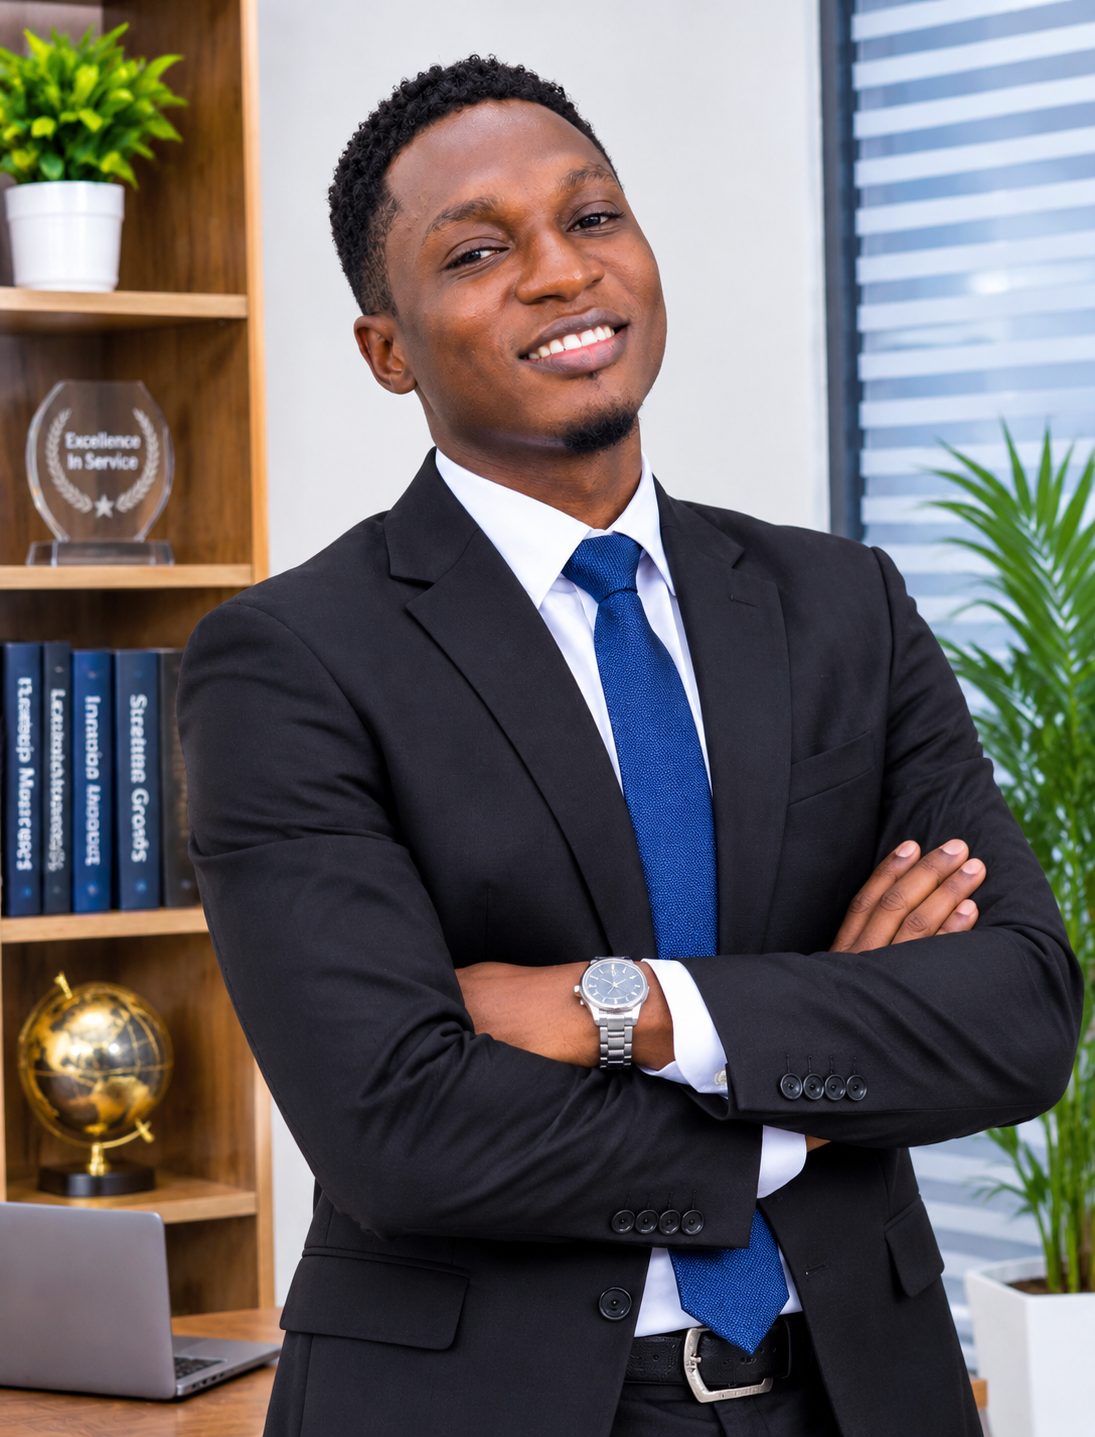
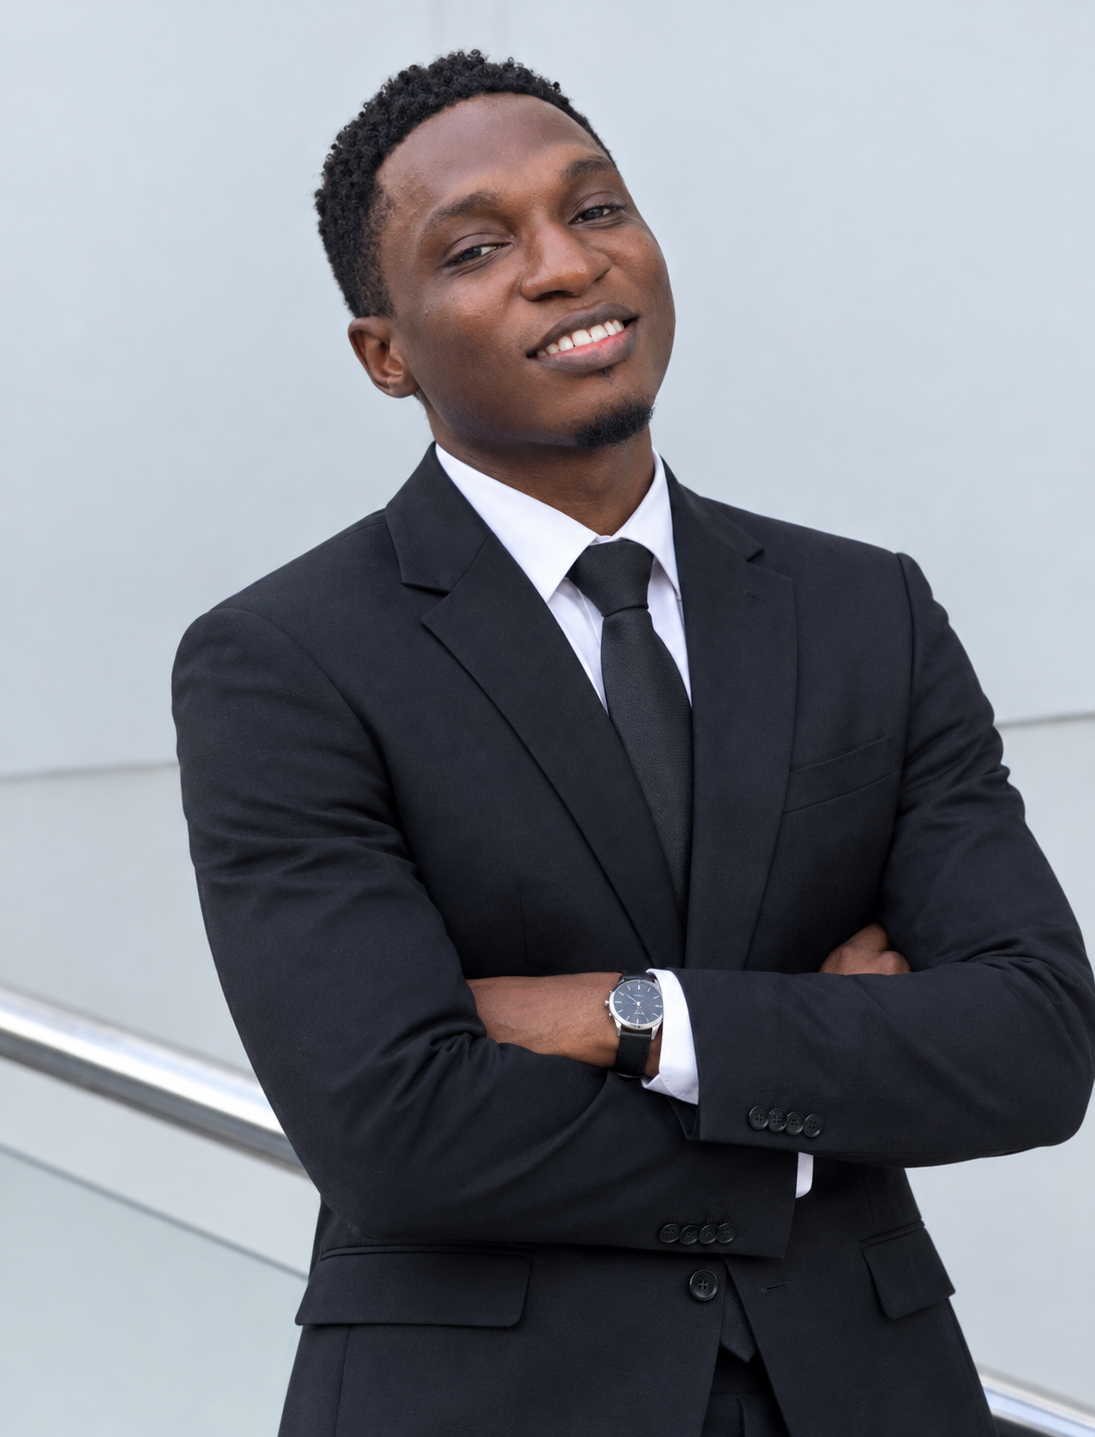
fix: update trustee image

diff --git a/src/pages/about.jsx b/src/pages/about.jsx
@@ -26,6 +26,7 @@ import {
 import heroPhoto from "../assets/IMG_3115.JPG.jpeg";
 import hoit from "../assets/kingsley.png";
 import jeff from "../assets/jeff.jpeg";
+import korede from "../assets/korede.jpeg";
 import bayo from "../assets/bayo.jpeg";
 import story1 from "../assets/IMG_3139.JPG.jpeg";
 import story2 from "../assets/IMG_3124.JPG.jpeg";
@@ -253,19 +254,19 @@ function Doodle({ name, className = "", style, fill = "none" }) {
 const TRUSTEES = [
   {
     name: "Arome Gabriel",
-    role: "Director of Impact and Evaluation.",
+    role: "Director of Impact and Evaluation",
     img: jeff,
     tone: "mint",
   },
   {
     name: "Korede Olanrewaju",
     role: "Multimedia Production Specialist",
-    img: null,
+    img: korede,
     tone: "sky",
   },
   {
     name: "Adebayo Ajao",
-    role: "Youth Coach and Mentor",
+    role: "Teen Coach and Mentor",
     img: bayo,
     tone: "blush",
   },

diff --git a/index.html b/index.html
@@ -50,7 +50,7 @@
     />
 
     <meta name="theme-color" content="#FF741F" />
-    <link rel="icon" type="image/png" href="/logo.png" />
+    <link rel="icon" href="/favicon.png" type="image/png" sizes="48x48" />
     <link rel="apple-touch-icon" href="/logo.png" />
 
     <link rel="preconnect" href="https://fonts.googleapis.com" />
